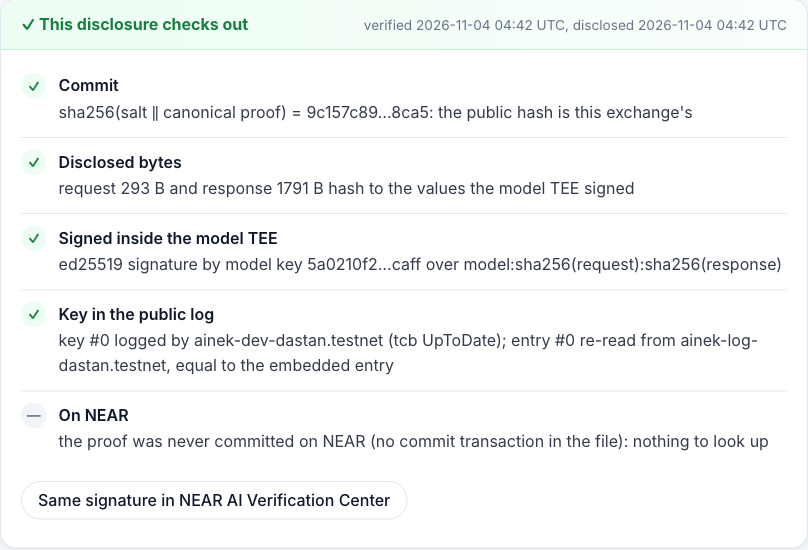
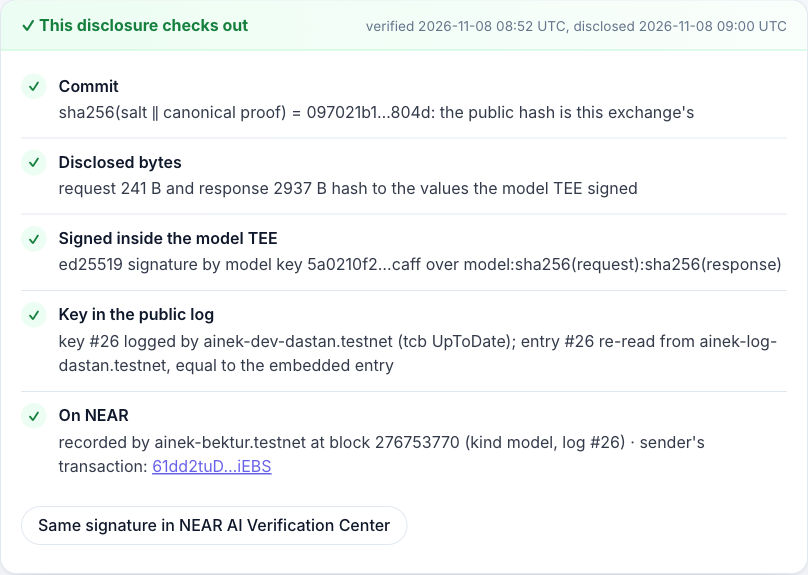
docs: a one-minute path for judges on top of the README, status moved down
The top of the README now says what to open on the hosted demo and which
three offline commands to run, with what each shows. The dated status
block becomes a section next to the Tier 2 flow, which already listed
what ran and what has not.

Two TODOs are closed with facts: SDK 0.3.0 shipped E2EE v3 on Nov 8 and
this repo still pins 0.2.1, so the reply-key exposure stands; every
verifier in the demo is ours. The disclosure of other projects no longer
says none: Dastan submits a separate one, name and link to follow.

DECISIONS gets the Nov 8 answers and two Nov 10 decisions. The log and
auditor screenshots are re-shot from the hosted demo.

diff --git a/README.md b/README.md
@@ -1,15 +1,7 @@
 # Ainek — a glass box for private AI agents on NEAR
 
-> **Status:** NEAR Hackathon submission (Nov 1–14, 2026). Tracks: Privacy & Private AI, AI Security & Defense,
-> Open Innovation, Social Money. Testnet only. Not audited. See [What we do not claim](#what-we-do-not-claim).
->
-> **Done:** Tier 1 client, proof package, offline replay, auditor page; key-log contract on testnet with `commit_proof`; the verifier daemon on a server since Nov 6 (docs/DEPLOY.md). Tier 2 on testnet since Nov 6: contract v3 with agents, the policy job on OutLayer, the demo token, the agent account.
-> **In progress:** the Telegram bot ran live on Nov 7: a payment, a denial, a token refusal and an approval through the whole chain (actions 3, 4, 8 and 9). For the approval the bot gives the owner the command and the owner signs with their own key. The same day a rejection, an approval and the stop button ran on chain from a script with a placeholder model proof (actions 5 to 7). What has not run live is listed under "Tier 2 flow".
->
-> **Reviewing this?** Every claim, the code behind it and a command that shows it: [docs/REVIEW.md](docs/REVIEW.md).
->
-> **Hosted demo:** https://ainek.vercel.app (testnet, nothing to install). The chat runs on our NEAR AI key, which has a
-> spend limit and a rate limit: if it stops answering, run it locally with your own key ("Try it").
+> NEAR Hackathon submission (Nov 1–14, 2026). Tracks: Privacy & Private AI, AI Security & Defense, Open Innovation,
+> Social Money. Testnet only. Not audited. See [What we do not claim](#what-we-do-not-claim).
 
 Ainek is a chat with a private model plus a proof you can check yourself. Before anything is sent, the model's signing key is
 checked against a **public, append-only key log in a NEAR contract** that verifiers write to (today: one verifier, ours); the
@@ -18,6 +10,34 @@ the proof is committed to NEAR (`commit_proof`, paid from storage the account pr
 only within a policy evaluated inside Intel TDX (OutLayer); status under "Tier 2 flow".
 
 <!-- TODO before submission: 90-second video link. -->
+
+## See it in a minute
+
+No key, no wallet, nothing to set up.
+
+**In a browser**, at https://ainek.vercel.app (testnet):
+
+| Do | See |
+| --- | --- |
+| Open [`/?tamper=1`](https://ainek.vercel.app/?tamper=1) and send any message | The client is shown a swapped key and refuses: the red card "Key not in the public log. Message not sent." |
+| Open [`/agent`](https://ainek.vercel.app/agent), then action #4 | A real denial from testnet (5000 AINEK to a new vendor, nothing moved), re-checked in your browser. "Demo: change the verdict and re-check" turns the signature check red |
+| Open [`/log`](https://ainek.vercel.app/log) | The public key log, read from the NEAR contract: who logged the model's key, whom the client trusts, which deployments were seen behind the key |
+| Open [`/auditor`](https://ainek.vercel.app/auditor) → "Use the sample file" → Check | "This disclosure checks out": one disclosed proof checked against its commit on NEAR, without the plaintext |
+
+**From a clean clone** (Node 24+, pnpm 10), offline, about a second each:
+
+```bash
+git clone https://github.com/sadabaevb/ainek && cd ainek && pnpm i
+pnpm demo            # recorded TDX + GPU evidence and two signed exchanges, re-verified → "Result: VERIFIED"
+pnpm demo:tamper     # the same recording with the key swapped → "Result: REFUSED", nothing is sent
+pnpm demo:policy     # a recorded policy run on OutLayer: Intel's quote, the published build, the decision → "Result: VERIFIED"
+```
+
+A verified reply in the hosted chat costs us tokens: it runs on our NEAR AI key, which has a spend limit and a rate limit.
+If it stops answering, run the chat locally with your own key ([Try it](#try-it-do-x--see-y)).
+
+**Reviewing this?** Every claim, the code behind it and a command that shows it: [docs/REVIEW.md](docs/REVIEW.md).
+What is done and what has not run live: [Status](#status-nov-10-2026).
 
 **The problem.** Every "private AI" today says "we run in a TEE, trust us". Hardware attestation is now
 commodity; what is missing is proof a *user* can re-check, independently of the vendor, that *this*
@@ -60,8 +80,8 @@ verifiers have seen behind the key (six since Nov 3, three in the last 24 hours 
 | ![The proof card: model, hardware, key in the public log, hashes, E2EE, on NEAR](docs/screenshots/proof-card.png) | ![Red card: key not in the public log, message not sent](docs/screenshots/refused.png) |
 | Unknown deployment: nothing is sent (`/?tamper=deployment`) | |
 | ![Red card: unknown deployment, message not sent](docs/screenshots/unknown-deployment.png) | |
-| The public key log (`/log`) | A disclosure checked by an auditor (`/auditor`) |
-| ![The public key log page](docs/screenshots/log.png) | ![The auditor verdict card](docs/screenshots/auditor.png) |
+| The public key log and the deployments seen behind the key (`/log`) | A disclosure checked by an auditor (`/auditor`) |
+| ![The public key log: the latest entries and the table of deployments seen](docs/screenshots/log.png) | ![The auditor verdict card: commit, disclosed bytes, signature, log entry, the commit found on NEAR](docs/screenshots/auditor.png) |
 | The agent as the chain shows it (`/agent`) | A recorded denial, re-checked in the browser (`/agent`, action #4) |
 | ![The agent card: can it act, what its key may do, where the tokens are, policy hash, decision key, owner](docs/screenshots/agent.png) | ![Action 4 open: the four checks, the link to its proof, the record's fields](docs/screenshots/agent-action.png) |
 
@@ -101,20 +121,17 @@ Among the 26 hackathon entries whose code we read on Nov 6, 2026, none combines 
 ## Try it (do X → see Y)
 
 Requires Node 24+ and pnpm 10 (`corepack enable`). Rust (rustup) is needed only for `contracts/ainek` (plus `cargo-near`) and
-`jobs/policy`, whose commands are under "Tests" in "Repository"; Docker only for the reproducible wasm builds (`docs/REVIEW.md`). The first block needs no key
-or network; `demo:live` and the chat need `NEARAI_API_KEY` (cloud.near.ai → API Keys). Each step says what you should see.
+`jobs/policy`, whose commands are under "Tests" in "Repository"; Docker only for the reproducible wasm builds (`docs/REVIEW.md`).
+After the clone and `pnpm i` from "See it in a minute": the first block needs no key or network; `demo:live` and the chat
+need `NEARAI_API_KEY` (cloud.near.ai → API Keys). Each step says what you should see.
 
 ```bash
-git clone https://github.com/sadabaevb/ainek && cd ainek
 cp .env.example .env             # optional: NEARAI_API_KEY only for demo:live and the chat
-pnpm i
-pnpm demo                        # offline replay, no key, no network (~1 s): SDK checks on recorded TDX + GPU evidence,
-                                 #   fail-closed rule, two signed exchanges (plaintext, E2EE) → ✓/✗ per step, proof card,
-                                 #   "Result: VERIFIED"
+pnpm demo                        # offline replay (~1 s): SDK checks on recorded TDX + GPU evidence, fail-closed rule, two
+                                 #   signed exchanges (plaintext, E2EE) → ✓/✗ per step, proof card, "Result: VERIFIED"
 pnpm demo:tamper                 # same recording, the key the client sees is swapped → "Result: REFUSED", nothing is sent
-pnpm demo:policy                 # offline: which code made a policy decision? A real run on OutLayer testnet is re-checked:
-                                 #   Intel signed the quote, and the quote commits to the published build and to the decision
-                                 #   → ✓ per check, "Result: VERIFIED". `--tamper` → "Result: REFUSED". `--live` fetches it all again
+pnpm demo:policy                 # offline: which code made a policy decision? A real run on OutLayer testnet is re-checked.
+                                 #   `--tamper` → "Result: REFUSED". `--live` fetches it all again
 pnpm test                        # packages/proof: canonical JSON, hashing, signatures, the fail-closed rule, the recorded
                                  #   samples end to end, the on-chain entry #0 hash reproduced byte for byte
 
@@ -135,7 +152,7 @@ pnpm -F web dev                  # keeps running, use a second terminal: http://
 
 At https://ainek.vercel.app, or at `http://localhost:3000` with `pnpm -F web dev` running:
 
-1. **See the log:** `/log` → the live log for `z-ai/glm-5.3-flash` and the trust set and quorum the client applies (today: entries by `ainek-dev-dastan.testnet` on `ainek-log-dastan.testnet`). The client trusts entries no older than 24 h: when there is no fresh entry `/log` says so ("No entry younger than 24 hours"), and the chat then refuses by design. The verifier daemon refreshes the log (entry #3 was its first run); since Nov 6 it runs on a server (docs/DEPLOY.md).
+1. **See the log:** `/log` → the live log for `z-ai/glm-5.3-flash` and the trust set and quorum the client applies (today: entries by `ainek-dev-dastan.testnet` on `ainek-log-dastan.testnet`). The client trusts entries no older than 24 h: when there is no fresh entry `/log` says so ("No entry younger than 24 hours"), and the chat then refuses by design. The verifier daemon refreshes the log.
 2. **Decide who you trust:** `/log`, "Who you trust" → untick the verifier and the preview says the chat would refuse; send a chat message → "Key logged only outside the trust set. Message not sent." ("See who you trust" opens the panel in a new tab, so the thread stays; "Back to the site default" undoes it). The choice stays in your browser and applies from the next message.
 3. **See fail-closed:** `pnpm demo:tamper`, or tick "swap the key" in the chat (`/?tamper=1`) → "Key not in the public log. Message not sent." The second switch (`/?tamper=deployment`) keeps the real key and shows the client a deployment nobody logged → "Unknown deployment. Message not sent."; `/log`, "Deployments seen", lists the ones verifiers did log.
 4. **See the non-TEE route:** pick the Incognito model in the chat → red card "This answer went through a non-attested model" (gateway signature only; our server sees this route in plaintext, and the card says so).
@@ -143,6 +160,15 @@ At https://ainek.vercel.app, or at `http://localhost:3000` with `pnpm -F web dev
 6. **Audit a disclosure:** `/auditor` → "Use the sample file" → Check → the commit recomputed from salt + proof, the hashes from the disclosed bytes, the log entry re-read from the chain and compared with the file's; the commit found on NEAR under the account that committed it → "This disclosure checks out". The button fills in that account (`docs/samples/disclosure.sample.chain.json`); any other account gets "… never committed this hash": the chain decides, not the file. The page says what the file does and does not prove. Where the sample comes from and when to record it again: `docs/samples/README.md`.
 7. **Re-check an agent's action:** `/verify` → "Use a real action proof" → Verify → a real denial from testnet (action 4: 5000 AINEK to a new vendor, nothing moved), checked in your browser: the decision's signature under the key the contract recorded, the same action and status on chain, the proof's salted commit, and the run's attestation (Intel's signature, the published build, this decision). The job's input shows as "—": a proof does not carry the input.
 8. **See what the agent did:** `/agent` → the agent as the chain shows it (can it act, what its key may call, where the tokens are, the policy hash) and every action it proposed, newest first. Each record is re-checked in your browser: the decision's signature under the key recorded with it, the payment it covers, an outcome that verdict allows, a model proof commit by the agent. Open #4, the denial → "Demo: change the verdict and re-check" → the signature check turns red; "open it on /verify" → step 7 for that action. The page follows the chain while it is open, so a new action appears by itself. The contract owner can approve or reject a waiting action there through a wallet (1 yoctoNEAR, a full-access signature); that path has unit tests and has not run on chain yet.
+
+## Status (Nov 10, 2026)
+
+- **Tier 1 runs end to end:** the client, the proof package, the offline replay, `/verify`, `/log` and `/auditor`; the
+  key-log contract on testnet with `commit_proof`; the verifier daemon on a server since Nov 6 (`docs/DEPLOY.md`).
+- **Tier 2 has been on testnet since Nov 6** (the contract with agents, the policy job on OutLayer, the demo token, the
+  agent account) and ran through the Telegram bot on Nov 7. What ran and what has not is listed below.
+- **Not there:** a verifier run by someone outside the team; the contract lock (`docs/DEPLOY.md`), so the contract
+  account still has a full-access key; the deployment check, written and switched off ("What we do not claim").
 
 **Tier 2 flow.** The agent is in `services/agent`; the contract, the policy job, the demo token and the agent account have been on testnet since Nov 6 (`docs/DEPLOY.md`). On Nov 7 the Telegram bot ran the scenes below through the whole chain (the model, the policy job over HTTPS with its attestation checked, the contract, the token), except the rejection and the stop button. Those two ran on chain the same day from a script with a placeholder model proof, and actions 5 to 7 in `check-agent` all come from that script. Not run live, so the plan and not a record: a rejection through the bot, a forwarded injection message (the denial below was typed), a commit failure recovered by the retry. Running the agent yourself needs your own testnet accounts, keys and Telegram bot: see `services/agent/README.md`.
 
@@ -233,19 +259,19 @@ Known issues we inherited (and say so):
 - NEAR AI's E2EE route has an open reply-key-substitution finding ([nearai/cloud-api#1061](https://github.com/nearai/cloud-api/issues/1061),
   cited by the Miller registry). We pin the model key from a verified report via `X-Model-Pub-Key`, which protects the request.
   The reply key travels as an unsigned header (`x-client-pub-key`), so any hop that swapped it could read each reply it
-  diverted, and the card would only fail afterwards. Upstream status, checked 2026-11-04: NEAR AI's fix is "E2EE v3" (design:
+  diverted, and the card would only fail afterwards. Upstream status, checked 2026-11-10: NEAR AI's fix is "E2EE v3" (design:
   [inference-proxy#312](https://github.com/nearai/inference-proxy/issues/312)), which binds the reply key and the field label
   into the AEAD associated data of every encrypted request field, so the proxy rejects a swapped key before inference. The
   gateway and proxy sides were merged on Oct 28 2026 ([cloud-api#1296](https://github.com/nearai/cloud-api/pull/1296),
   [inference-proxy#321](https://github.com/nearai/inference-proxy/pull/321)); v1/v2 requests keep their old, unauthenticated
   format for compatibility, and we have not checked whether production runs the new code. The SDK side
-  ([inference-sdk#127](https://github.com/nearai/inference-sdk/pull/127)) is still open: SDK 0.2.1, which we use, sends
-  `X-Encryption-Version: 2` (with ed25519, which we always request), so the exposure above stands for us. We will move to v3
-  when the SDK ships it; if that happens before Nov 14 and a live chat shows the gateway accepting v3, the demo moves to v3.
-  <!-- TODO Nov 12: re-check inference-sdk#127, the SDK version and the issue state; update the date above -->
+  ([inference-sdk#127](https://github.com/nearai/inference-sdk/pull/127)) was merged on Nov 6 and shipped in SDK 0.3.0 on
+  Nov 8. This repo still pins SDK 0.2.1, which sends `X-Encryption-Version: 2` (with ed25519, which we always request), so
+  the exposure above stands for us. Moving to v3 needs a live chat that shows the gateway accepting it, and we have not
+  run one. The finding itself is still open upstream.
 - The Verification Center and the SDK do not ship a measurement allowlist; our log is only as good as the verifiers that
-  write to it. Today the log is written by our own verifier; a verifier run by someone outside the team is planned.
-  <!-- TODO by Nov 12: name/nick with consent, or the honest line "all verifiers in the demo are ours" -->
+  write to it. Every verifier in the demo is ours: one writes to the log, a second is registered and not writing. Nobody
+  outside the team runs one yet.
 
 ## Architecture
 
@@ -354,7 +380,8 @@ Tests:
   through `/simplify` and `/code-review` before merge; see the commit history and `docs/DEV-NOTES.md`.
 - Hackathon window: all code after tag `pre-hackathon` (project kit: docs, spec, prompts, no code; Nov 2 2026). Diff:
   <!-- TODO link compare pre-hackathon...hackathon-submission -->
-- Other projects by the same people in this hackathon: none.
+- Other projects by the same people in this hackathon: Dastan also submits a separate project, built apart from this one.
+  <!-- TODO before submission: its name and link (each README has to name the other) -->
 
 ## Next steps
 

diff --git a/docs/CLAIMS.md b/docs/CLAIMS.md
@@ -104,16 +104,16 @@ Honest limitations won prizes at previous NEAR hackathons.
 - NEAR AI's E2EE route has an open reply-key-substitution finding ([nearai/cloud-api#1061](https://github.com/nearai/cloud-api/issues/1061),
   cited by the Miller registry). We pin the model key from a verified report via `X-Model-Pub-Key`, which protects the request.
   The reply key travels as an unsigned header (`x-client-pub-key`), so any hop that swapped it could read each reply it
-  diverted, and the card would only fail afterwards. Upstream status, checked 2026-11-04: NEAR AI's fix is "E2EE v3" (design:
+  diverted, and the card would only fail afterwards. Upstream status, checked 2026-11-10: NEAR AI's fix is "E2EE v3" (design:
   [inference-proxy#312](https://github.com/nearai/inference-proxy/issues/312)), which binds the reply key and the field label
   into the AEAD associated data of every encrypted request field, so the proxy rejects a swapped key before inference. The
   gateway and proxy sides were merged on Oct 28 2026 ([cloud-api#1296](https://github.com/nearai/cloud-api/pull/1296),
   [inference-proxy#321](https://github.com/nearai/inference-proxy/pull/321)); v1/v2 requests keep their old, unauthenticated
   format for compatibility, and we have not checked whether production runs the new code. The SDK side
-  ([inference-sdk#127](https://github.com/nearai/inference-sdk/pull/127)) is still open: SDK 0.2.1, which we use, sends
-  `X-Encryption-Version: 2` (with ed25519, which we always request), so the exposure above stands for us. We will move to v3
-  when the SDK ships it; if that happens before Nov 14 and a live chat shows the gateway accepting v3, the demo moves to v3.
-  <!-- TODO Nov 12: re-check inference-sdk#127, the SDK version and the issue state; update the date above -->
+  ([inference-sdk#127](https://github.com/nearai/inference-sdk/pull/127)) was merged on Nov 6 and shipped in SDK 0.3.0 on
+  Nov 8. This repo still pins SDK 0.2.1, which sends `X-Encryption-Version: 2` (with ed25519, which we always request), so
+  the exposure above stands for us. Moving to v3 needs a live chat that shows the gateway accepting it, and we have not
+  run one. The finding itself is still open upstream.
 - The Verification Center and the SDK do not ship a measurement allowlist; our log is only as good as the verifiers that
-  write to it. Today the log is written by our own verifier; a verifier run by someone outside the team is planned.
-  <!-- TODO by Nov 12: name/nick with consent, or the honest line "all verifiers in the demo are ours" -->
+  write to it. Every verifier in the demo is ours: one writes to the log, a second is registered and not writing. Nobody
+  outside the team runs one yet.

diff --git a/docs/DECISIONS.md b/docs/DECISIONS.md
@@ -25,3 +25,8 @@
 | 2026-11-06 | **Tier 2: GO.** Tier 2 branches may merge after review. On the morning of Nov 10 we check that the agent runs end to end on testnet; if it does not, we drop features in the order set in docs/ROADMAP.md | Tier 1 passed a clean-copy check on `e356952` on our own Mac; an outsider's run is still ahead (docs/DEV-NOTES.md 2026-11-06). Without the agent the product answers two of its three questions | both |
 | 2026-11-07 | Verifier registration stays with the owner: an outside verifier is registered by hand. The README says "registration is owner-gated" | the owner can still add a verifier after the lock, and the choice of whom to trust is already the client's (`/log`); the per-verifier log read, planned before the lock, keeps that choice working against a flood of entries. The cost: the log differs from an owner's registry only once someone outside the team writes to it | both |
 | 2026-11-07 | `set_owner` stays one-step | testnet; `docs/DEPLOY.md` warns that a wrong account loses the role for good | both |
+| 2026-11-08 | The contract is not locked before submission: the contract account keeps its full-access key. The README says so under "An immutable log" and in the status | Dastan's answer, relayed by Bektur on Nov 8. `docs/DEPLOY.md`: after the lock nobody can fix a bug in the contract, and the build with the per-verifier log read is not deployed yet | Dastan |
+| 2026-11-08 | The repo goes public on Nov 13; the search for an outside verifier starts then, through people we know. Until someone runs one the README says "every verifier in the demo is ours" | Dastan's answer, relayed by Bektur on Nov 8. The Nov 2 "mandatory" stays the goal; the text follows the facts | Dastan |
+| 2026-11-08 | Dastan also submits a separate project; each README names the other | the rules allow two independent projects per person if each discloses the other | Dastan |
+| 2026-11-10 | The deployment check ships switched off (`AINEK_REQUIRE_DEPLOYMENT=0`) | the verifier samples one instance per round, so a real rollout would refuse honest users for hours; and the check narrows the gap without closing it (SPEC §7.1) | Bektur, to confirm with Dastan |
+| 2026-11-10 | The repo stays on SDK 0.2.1 until a live chat on 0.3.0 shows the gateway accepting E2EE v3 | 0.3.0 came out on Nov 8, four days before the freeze; the reply-key exposure is disclosed under "Known issues we inherited" | Bektur |

diff --git a/docs/DEV-NOTES.md b/docs/DEV-NOTES.md
@@ -1805,3 +1805,16 @@ Task hash у OutLayer склеивает текстовые поля без ра
 - Тестов уровня «весь прогон» у Node-раннера нет (он ходит в сеть), там изменение в одну строку; логика покрыта в
   `key-log.test.ts`.
 
+## 2026-11-10 — README: путь судьи за минуту, SDK 0.3.0 (Бектур)
+
+- Вверху README теперь «See it in a minute»: четыре шага на сайте и три команды из чистого клона. Все семь проверены
+  10 ноября: команды дают `VERIFIED` / `REFUSED` / `VERIFIED` примерно за секунду каждая, шаги на `ainek.vercel.app`
+  пройдены в браузере (сообщение с `?tamper=1` не уходит и токенов не тратит). Статус переехал в раздел «Status».
+- **NEAR AI выпустили SDK 0.3.0 (8 ноября)** с E2EE v3: ключ ответа привязан к шифртексту, подмена отклоняется до
+  инференса (inference-sdk#127, смерджен 6 ноября). Мы остались на 0.2.1: до фриза два дня, а проверить v3 можно только
+  живым сообщением (тратит токены, нужно «да»). README и CLAIMS говорят это прямо; находка cloud-api#1061 у NEAR AI ещё
+  открыта. Переход на 0.3.0 — отдельная ветка, если решим успеть.
+- В `DECISIONS.md` записаны ответы Дастана от 8 ноября (контракт не запираем, репо открываем 13-го, у Дастана вторая
+  заявка) и два решения от 10 ноября. В README строка «другие проекты тех же людей» ждёт название и ссылку.
+- Скриншоты `log.png` и `auditor.png` пересняты с сайта: на `/log` появилась таблица деплоев, на `/auditor` коммит
+  теперь находится в NEAR.
